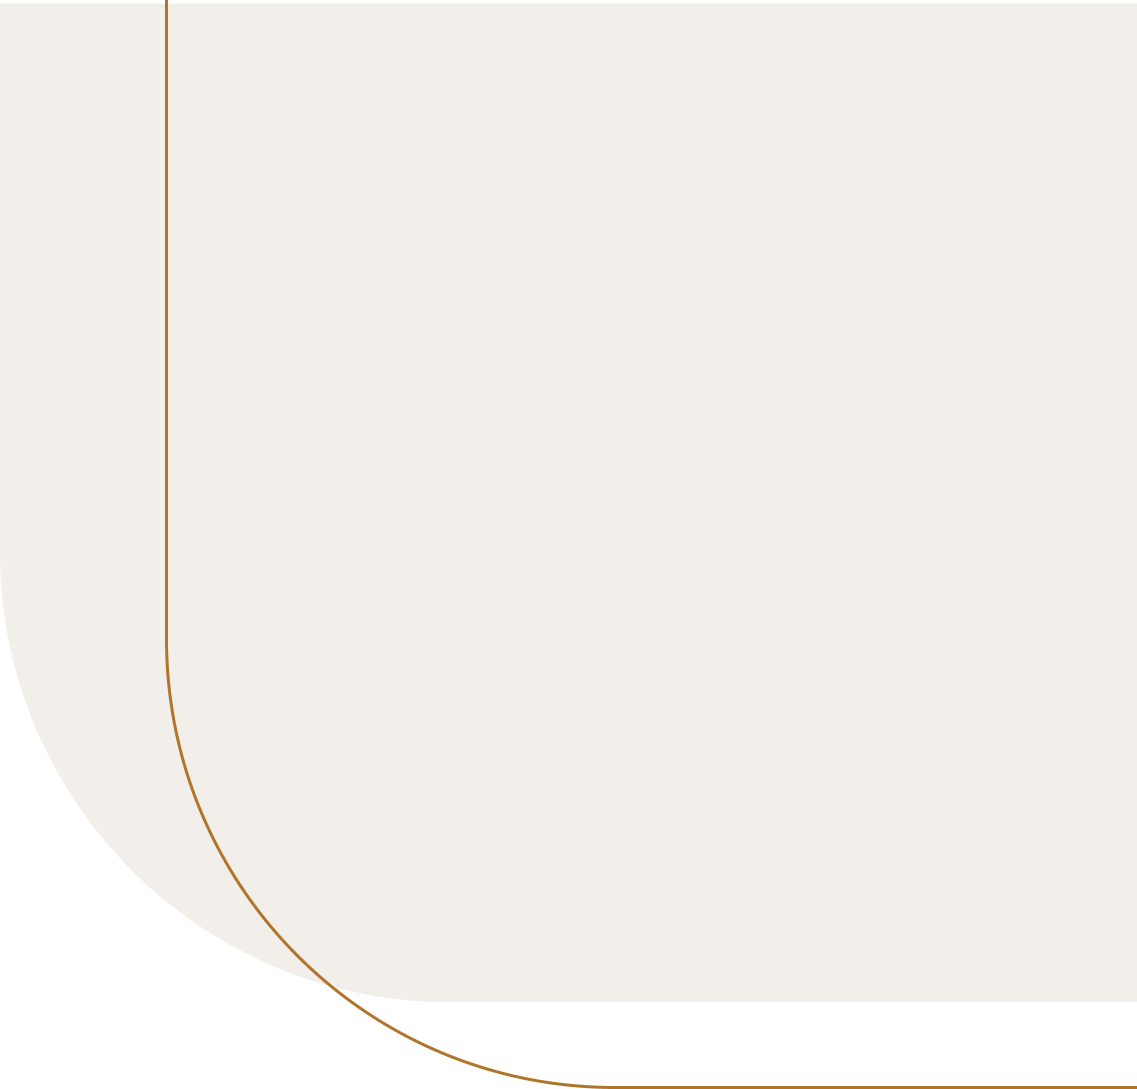
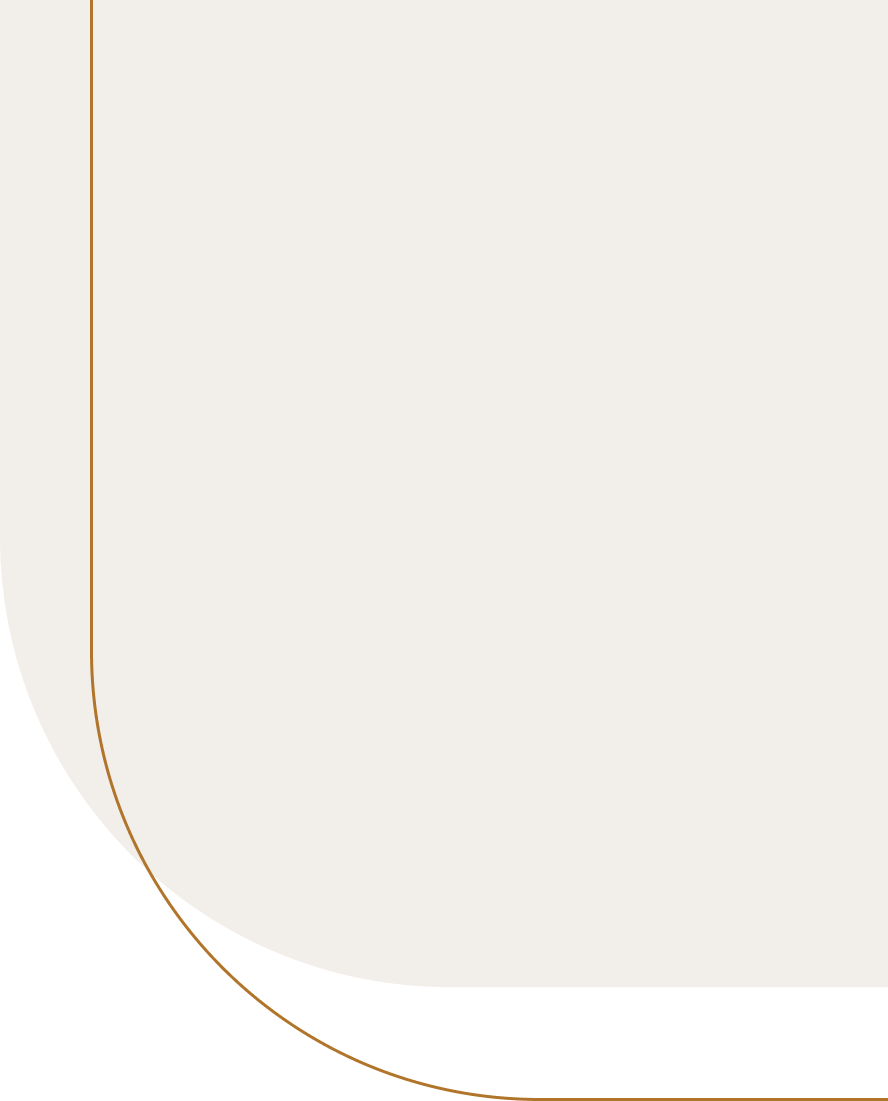
V

diff --git a/app/components/Layout/Footer.tsx b/app/components/Layout/Footer.tsx
@@ -143,8 +143,9 @@ export default function Footer(): JSX.Element {
         </div>
         <div
           className={cn(
-            "hidden xl:inline-block justify-self-end mt-20 lg:mt-[100px]",
-            pathname === `/${locale}/contacts` && "xl:hidden"
+            "hidden xl:inline-block justify-self-end mt-20",
+            pathname === `/${locale}/contacts` && "xl:hidden",
+            locale === "en" ? "lg:mt-[100px]" : "lg:mt-[104px]"
           )}
         >
           <Image
@@ -158,7 +159,7 @@ export default function Footer(): JSX.Element {
         </div>
         <div
           className={cn(
-            "hidden xl:inline-block w-[320px] h-[670px] justify-self-end relative -top-64",
+            "hidden xl:inline-block w-[320px] h-[670px] justify-self-end relative -top-72",
             pathname !== `/${locale}/contacts` && "xl:hidden"
           )}
         >

diff --git a/app/[locale]/not-found.tsx b/app/[locale]/not-found.tsx
@@ -7,7 +7,7 @@ import image3 from "@/public/dots.svg";
 export default function NotFound(): JSX.Element {
   return (
     <div className="max-w-7xl mx-auto flex flex-col items-center mb-10 text-center">
-      <div className="hidden xl:inline-block w-[381px] h-[364px] self-end relative -top-32">
+      <div className="hidden xl:inline-block w-[310px] h-[364px] self-end relative ">
         <Image src={image1} alt="Decor image" fill object-fit="contain" />
       </div>
       <div className="mt-40 xl:mt-0">

diff --git a/app/components/Portfolio/Hero.tsx b/app/components/Portfolio/Hero.tsx
@@ -33,7 +33,7 @@ export default async function Hero(): Promise<JSX.Element> {
             <p className="sm:text-xl sm:leading-6">{t("portfolio.text-4")}</p>
           </Reveal>
         </div>
-        <div className="hidden xl:inline-block w-[381px] h-[465px] justify-self-end relative -top-32">
+        <div className="hidden xl:inline-block w-[310px] h-[427px] justify-self-end relative -top-32">
           <Image src={image2} alt="Decor image" fill object-fit="contain" />
         </div>
       </div>

diff --git a/app/[locale]/thank-you/page.tsx b/app/[locale]/thank-you/page.tsx
@@ -17,12 +17,12 @@ export default async function ThankYouPage(): Promise<JSX.Element> {
   const t = await getI18n();
   return (
     <div className="max-w-7xl mx-auto flex flex-col items-center mb-10">
-      <div className="self-end relative -top-32">
+      <div className="self-end relative ">
         <Image
           src={image1}
           alt="Decor image"
           style={{
-            width: "374px",
+            width: "310px",
             height: "auto",
           }}
         />

diff --git a/app/[locale]/imprint/page.tsx b/app/[locale]/imprint/page.tsx
@@ -19,12 +19,12 @@ export default function ImprintPage(): JSX.Element {
     <>
       <FollowPointer />
       <div className="max-w-7xl mx-auto flex flex-col items-center mb-10">
-        <div className="self-end relative -top-32">
+        <div className="self-end relative">
           <Image
             src={image1}
             alt="Decor image"
             style={{
-              width: "374px",
+              width: "310px",
               height: "auto",
             }}
           />

diff --git a/app/[locale]/privacy-policy/page.tsx b/app/[locale]/privacy-policy/page.tsx
@@ -34,7 +34,7 @@ export default async function PrivacyPolicyPage(): Promise<JSX.Element> {
             </h1>
           </Reveal>
         </div>
-        <div className="hidden xl:inline-block w-[415px] h-[331px] justify-self-end relative -top-32">
+        <div className="hidden xl:inline-block w-[310px] h-[331px] justify-self-end relative -top-32">
           <Image src={image2} alt="Decor image" fill object-fit="contain" />
         </div>
       </div>

diff --git a/app/[locale]/cookie-policy/page.tsx b/app/[locale]/cookie-policy/page.tsx
@@ -34,7 +34,7 @@ export default async function CookiePolicyPage(): Promise<JSX.Element> {
             </h1>
           </Reveal>
         </div>
-        <div className="hidden xl:inline-block w-[415px] h-[331px] justify-self-end relative -top-32">
+        <div className="hidden xl:inline-block w-[310px] h-[331px] justify-self-end relative -top-32">
           <Image src={image2} alt="Decor image" fill object-fit="contain" />
         </div>
       </div>

diff --git a/app/components/IllustrationsAndDigitalArt/Hero.tsx b/app/components/IllustrationsAndDigitalArt/Hero.tsx
@@ -36,7 +36,7 @@ export default async function Hero(): Promise<JSX.Element> {
             </p>
           </RevealDesktop>
         </div>
-        <div className="hidden xl:inline-block w-[381px] h-[364px] justify-self-end relative -top-32">
+        <div className="hidden xl:inline-block w-[310px] h-[477px] justify-self-end relative -top-32">
           <Image src={image1} alt="Decor image" fill object-fit="contain" />
         </div>
       </div>

diff --git a/app/components/UiUxDesign/Hero.tsx b/app/components/UiUxDesign/Hero.tsx
@@ -33,7 +33,7 @@ export default async function Hero(): Promise<JSX.Element> {
             </p>
           </RevealDesktop>
         </div>
-        <div className="hidden xl:inline-block w-[381px] h-[364px] justify-self-end relative -top-32">
+        <div className="hidden xl:inline-block w-[310px] h-[364px] justify-self-end relative -top-32">
           <Image src={image2} alt="Decor image" fill object-fit="contain" />
         </div>
       </div>

diff --git a/app/components/GraphicDesign/Hero.tsx b/app/components/GraphicDesign/Hero.tsx
@@ -36,7 +36,7 @@ export default async function Hero(): Promise<JSX.Element> {
             </p>
           </Reveal>
         </div>
-        <div className="hidden xl:inline-block w-[381px] h-[465px] justify-self-end relative -top-32">
+        <div className="hidden xl:inline-block w-[310px] h-[427px] justify-self-end relative -top-32">
           <Image src={image2} alt="Decor image" fill object-fit="contain" />
         </div>
       </div>
